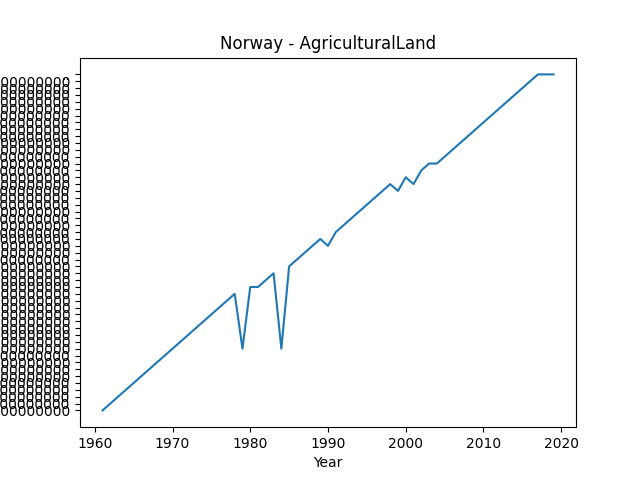
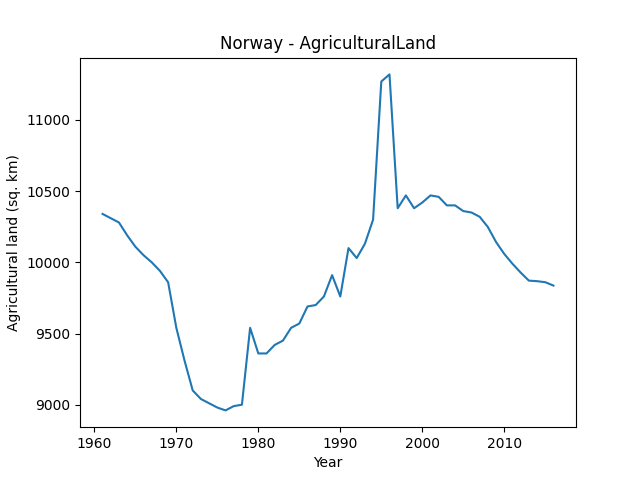
fix missing data and correct data types

diff --git a/Code/Main.py b/Code/Main.py
@@ -28,14 +28,12 @@ def CleanData(data):
     #the following columns are not needed
     data.drop(['ISO_N3', 'ISO_C3'], axis=1, inplace=True)
 
-    #ToDo: Cleaning Code from Maha, somehow I cannot get it to work, fix!
-    #column_names = data.columns
-    #data_population = data['Population']
-    #data = data.stack().str.replace(',', '.').unstack()
-    #data['Population'] = data_population
-    #data = data.stack().replace('..', float('NaN')).unstack()
-    #data_list = [pd.to_numeric(data[column_names[i]]) for i in range(len(column_names))]
-    #data = pd.concat(data_list, axis=1)
+    #fix missing data and convert to correct data type
+    data['AgriculturalLand']= data['AgriculturalLand'].replace('..', np.nan)
+    data['CropProductionIndex']= data['CropProductionIndex'].replace('..', np.nan) 
+    data['AgriculturalLand'] = pd.to_numeric(data['AgriculturalLand'])#, downcast="float")
+    data['CropProductionIndex'] = pd.to_numeric(data['CropProductionIndex'])#, downcast="float")
+    print(data.dtypes)
 
 ## Graph functions
 # Creates a correlation plot of all columns in dataframe
